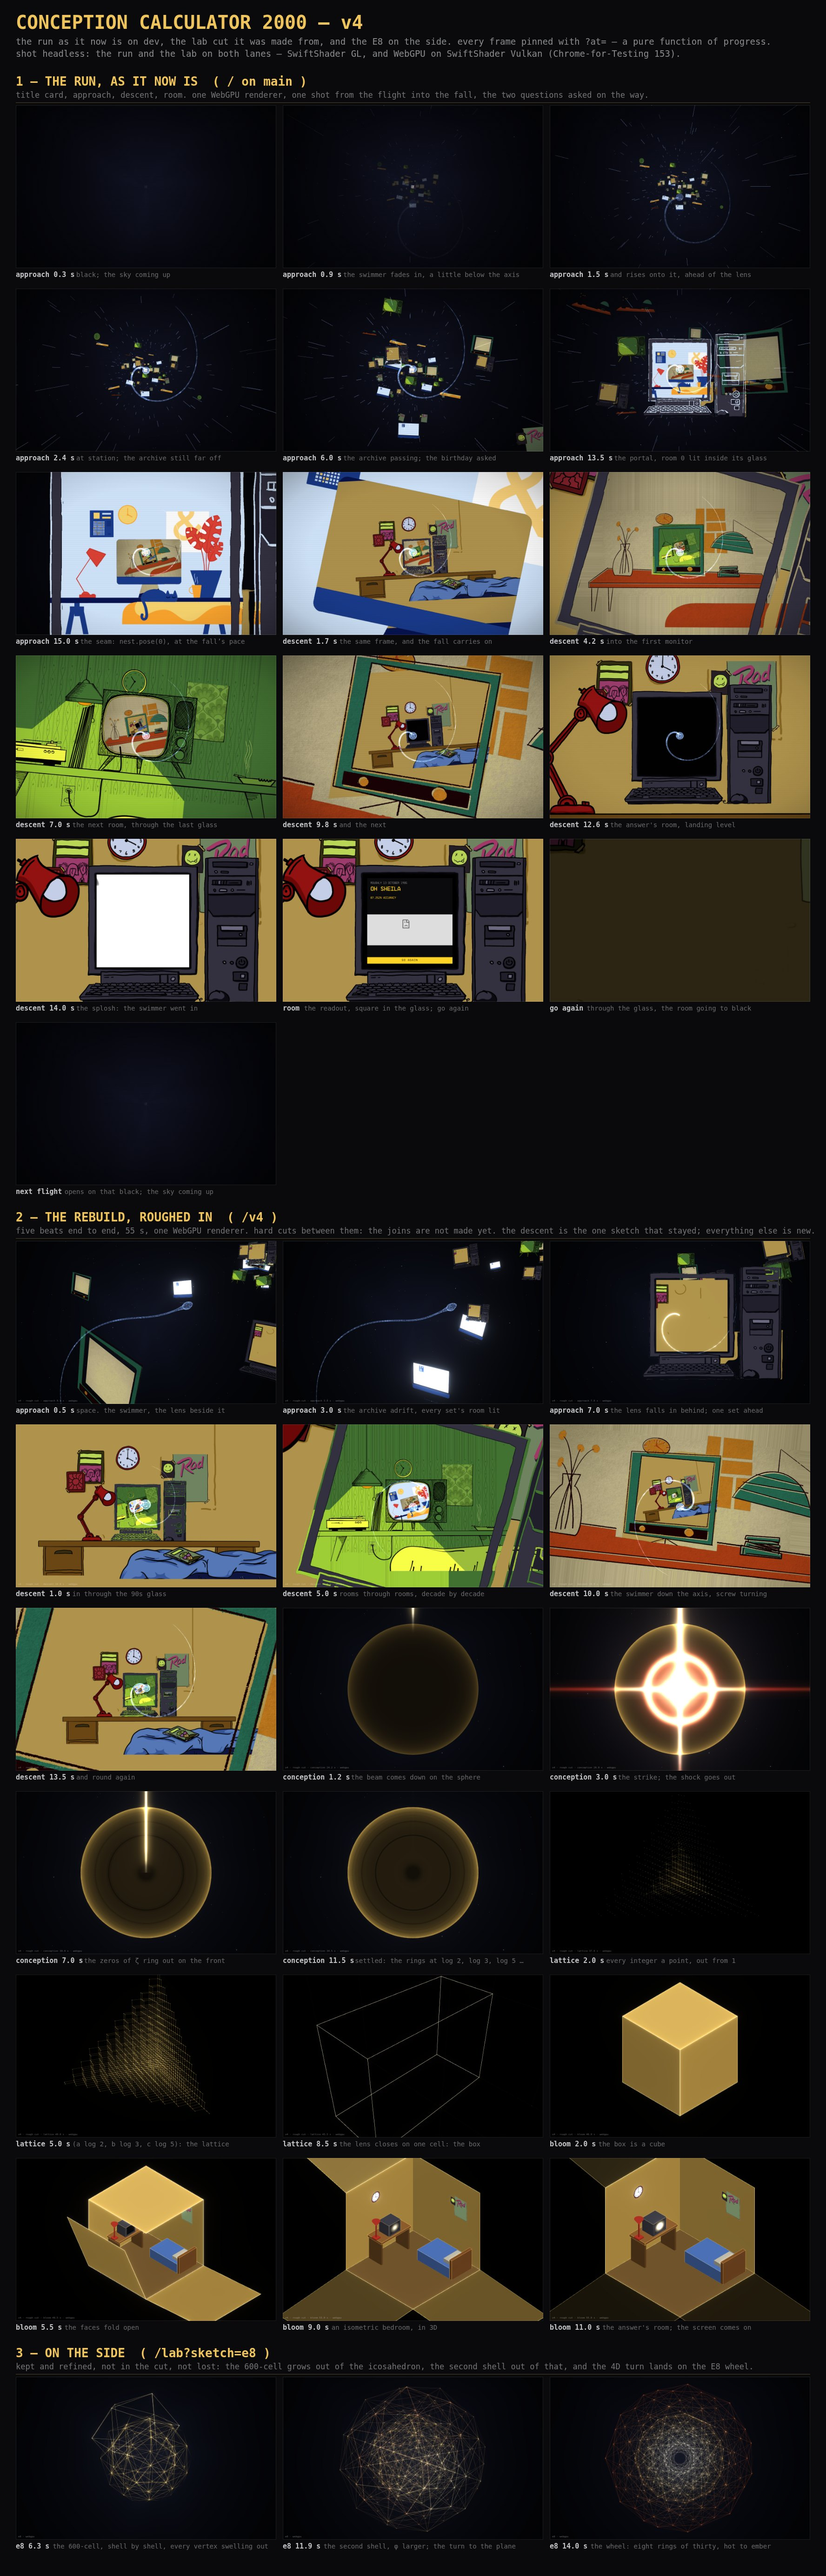
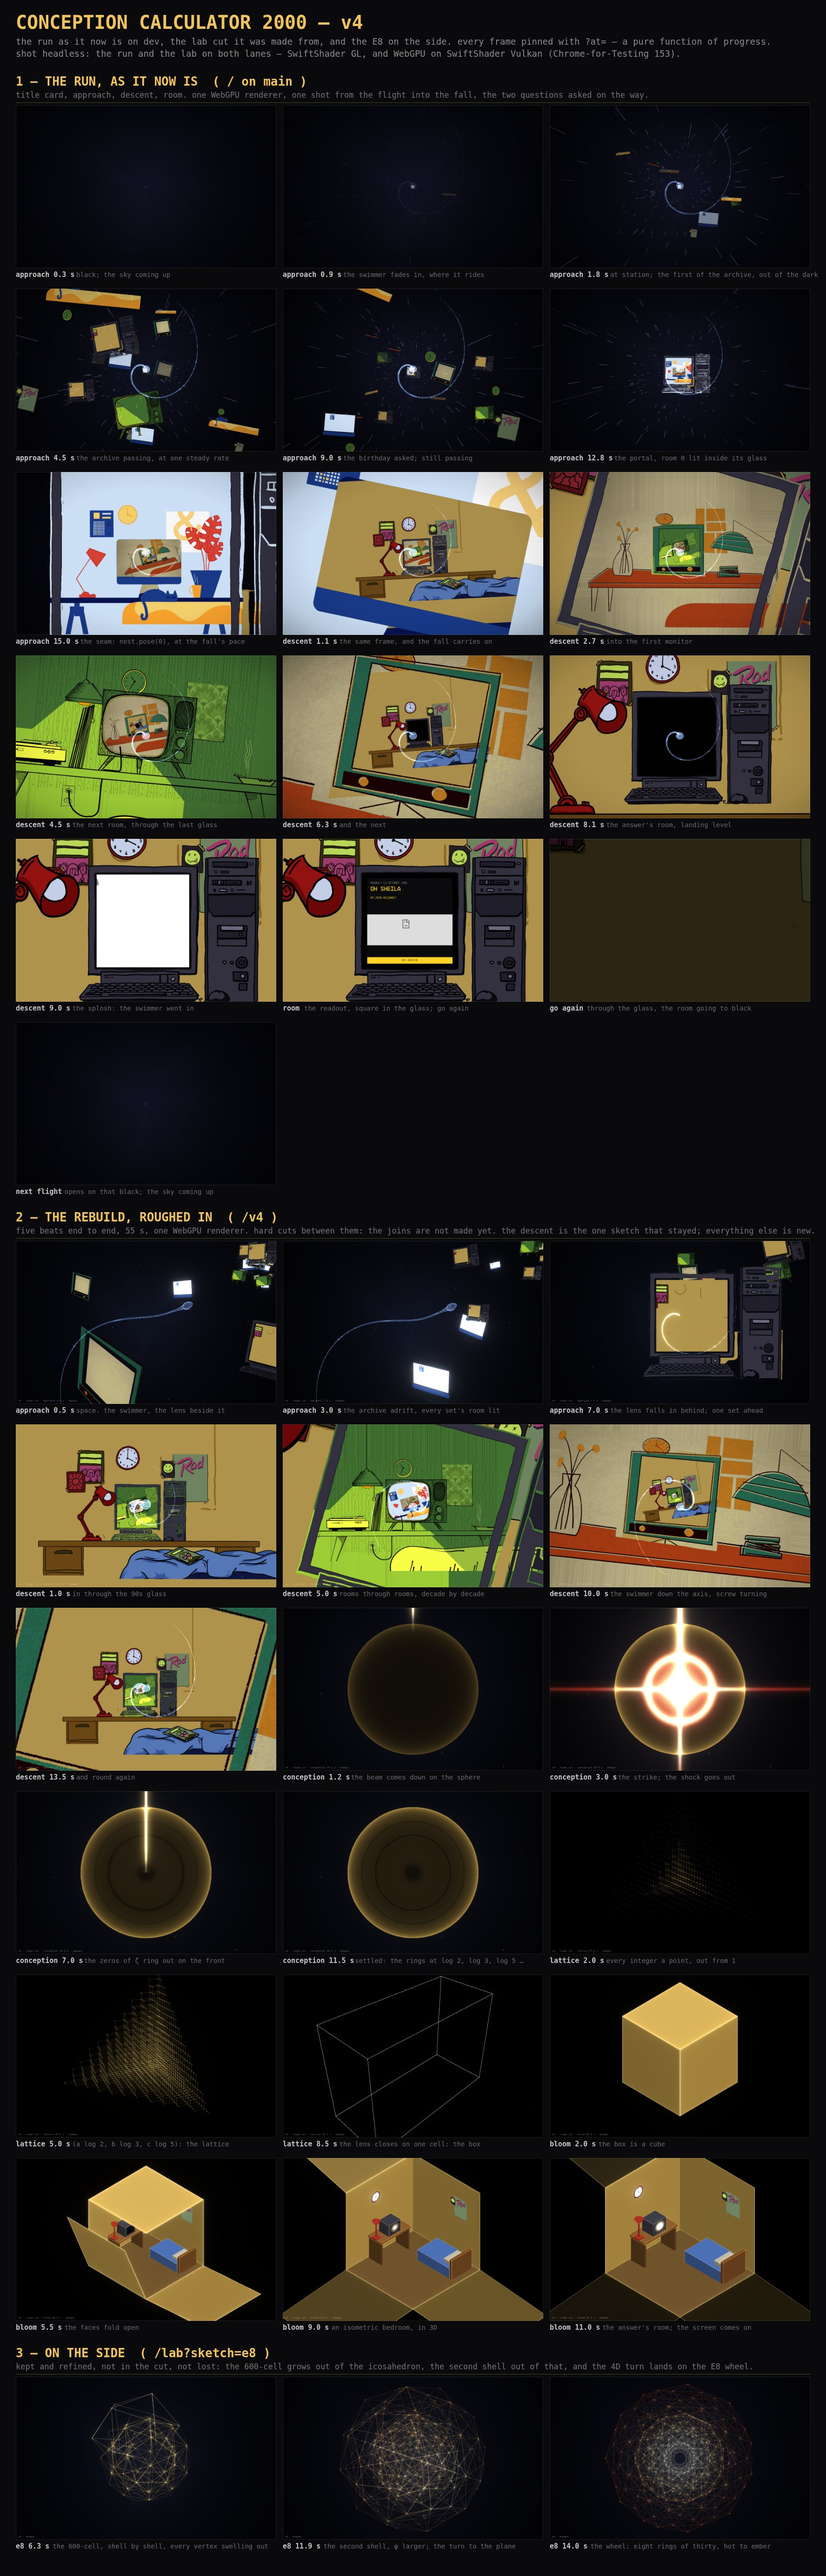
The archive in time and out of the dark, the swimmer on the axis, the fall at nine seconds
The swimmer fades in where it rides, on the axis - no rise, no pass.

The stuff that flies by was visible from the far end of the flight and
piled up round the portal while the lens slowed into it. Each piece now
has its own moment of the flight to pass the lens at and is put where
the lens will be at that moment, so it comes by at one steady rate
whatever the camera's speed is doing and nothing waits round the portal;
and it comes out of the dark, unseen beyond forty-four units ahead and
fully there inside twenty-four, so the field is what is passing rather
than a cluster seen from afar.

The fall through the monitors was too slow: the descent is nine seconds
now, not fourteen - a second and a half a crossing, the pace the lab
sketch fell at - and the approach's arrival speed follows it. The seam
still diffs to zero. The flow page is reshot.

Claude-Session: https://claude.ai/code/session_01QLiPmc6xzim2DaqGbbozFN

diff --git a/src/lib/three/world/approach.js b/src/lib/three/world/approach.js
@@ -1,4 +1,4 @@
-import { vec4, texture } from 'three/tsl';
+import { vec4, texture, positionView, smoothstep as tslSmoothstep } from 'three/tsl';
 import { get } from 'svelte/store';
 import {
 	SCENES,
@@ -40,11 +40,18 @@ import { roomsFor } from './nest';
 //
 // ── The opening ──────────────────────────────────────────────────────────────
 // The card lifts, the sky develops, and then the swimmer is there: it fades in
-// at its riding distance, a little below the axis, and rises onto it — and
-// only then does the archive start arriving, because the nearest of it is
-// APPROACH.nearest units down the flight. Three beats, and the third is the
-// event. It does NOT fly past the lens from behind: every version of that
-// reads as a body being stretched by a wide lens.
+// at its riding distance, on the axis — and only then does the archive start
+// arriving. Three beats, and the third is the event. It does NOT fly past the
+// lens from behind: every version of that reads as a body being stretched by
+// a wide lens.
+//
+// ── The archive, in time ─────────────────────────────────────────────────────
+// Each piece adrift is given a MOMENT of the flight to pass the lens at, and
+// is put where the lens will be at that moment; so it comes by at one steady
+// rate whatever the camera's speed is doing, and nothing sits round the portal
+// while the lens slows into it. And it comes out of the dark — unseen beyond
+// APPROACH.seen[1] units ahead, fully there inside seen[0] — so the field is
+// what is passing, not a cluster seen from the far end of the flight.
 //
 // ── The flight takes the answers ─────────────────────────────────────────────
 // There is no machine, so the run asks its two questions on the way in, and
@@ -126,6 +133,10 @@ export async function createApproach({ THREE, renderer, nest }) {
 	const tex = nest.textures;
 	const { uniform } = await import('three/tsl');
 	const uOn = uniform(0);
+	// Out of the dark: by view depth, so a piece is there only once it is near.
+	const uSeen0 = uniform(A.seen[0]);
+	const uSeen1 = uniform(A.seen[1]);
+	const near = tslSmoothstep(uSeen0, uSeen1, positionView.z.negate()).oneMinus();
 	const driftMats = [];
 	const dimMat = {};
 	const bgMat = {};
@@ -133,19 +144,19 @@ export async function createApproach({ THREE, renderer, nest }) {
 	for (const d of DECADES) {
 		const m = new THREE.MeshBasicNodeMaterial({ transparent: true });
 		const c = glassCut(d, tex[d].screen)();
-		m.colorNode = vec4(c.rgb.mul(0.8).mul(uOn), c.a.mul(uOn));
+		m.colorNode = vec4(c.rgb.mul(0.8).mul(uOn), c.a.mul(uOn).mul(near));
 		dimMat[d] = m;
 		driftMats.push(m);
 		const b = new THREE.MeshBasicNodeMaterial({ transparent: true });
 		const tb = texture(tex[d].bg);
-		b.colorNode = vec4(tb.rgb.mul(uOn), uOn);
+		b.colorNode = vec4(tb.rgb.mul(uOn), uOn.mul(near));
 		bgMat[d] = b;
 		driftMats.push(b);
 		furnMat[d] = {};
 		for (const key of ['desk', 'bed', 'poster', 'clock']) {
 			const fm = new THREE.MeshBasicNodeMaterial({ transparent: true });
 			const tf = texture(tex[d][key]);
-			fm.colorNode = vec4(tf.rgb.mul(0.8).mul(uOn), tf.a.mul(uOn));
+			fm.colorNode = vec4(tf.rgb.mul(0.8).mul(uOn), tf.a.mul(uOn).mul(near));
 			furnMat[d][key] = fm;
 			driftMats.push(fm);
 		}
@@ -193,21 +204,23 @@ export async function createApproach({ THREE, renderer, nest }) {
 		m.scale.set(width, width / (t.image.width / t.image.height), 1);
 		return m;
 	}
-	// A tube of them ahead, off the axis, at every distance from the nearest
-	// to a little past the portal.
+	// A tube of them, off the axis, each with its own moment to pass the lens
+	// at. Where that puts it along the flight depends on the flight's profile,
+	// which is settled per run — see placeNest(), which lays them out.
 	const place = (obj, r0, r1) => {
 		const a = rand() * Math.PI * 2;
 		const r = r0 + rand() * (r1 - r0);
-		obj.position.set(
-			Math.cos(a) * r,
-			Math.sin(a) * r * 0.75,
-			-A.nearest - rand() * (A.travel - A.nearest + 30)
-		);
+		obj.position.set(Math.cos(a) * r, Math.sin(a) * r * 0.75, 0);
 		obj.rotation.y = (rand() - 0.5) * 0.6;
 		const rot0 = (rand() - 0.5) * 0.5;
 		obj.rotation.z = rot0;
 		drifters.add(obj);
-		items.push({ mesh: obj, rot0, rate: (rand() - 0.5) * 0.4 });
+		items.push({
+			mesh: obj,
+			rot0,
+			rate: (rand() - 0.5) * 0.4,
+			at: A.passing[0] + rand() * (A.passing[1] - A.passing[0])
+		});
 	};
 	for (let i = 0; i < A.screens; i++) {
 		place(monitor(DECADES[i % DECADES.length], 1.6 + rand() * 1.6), A.tube[0], A.tube[1]);
@@ -267,6 +280,8 @@ export async function createApproach({ THREE, renderer, nest }) {
 		const c = (1 - T.cruise) / 2;
 		rho = Math.max(0.05, Math.min(1, (q * (1 - c)) / (1 - q * c)));
 		ga = 1 / (1 - (1 - rho) * c);
+		// And the archive, where the lens will be when each piece's moment comes.
+		for (const it of items) it.mesh.position.z = zEnd * flown(it.at);
 	}
 	function flown(tau) {
 		const t1 = T.cruise;
@@ -373,12 +388,11 @@ export async function createApproach({ THREE, renderer, nest }) {
 		// It rides ahead of the LENS, dead centre, and at the end pulls in to
 		// where the descent expects it. Sized off the lens and the ride so it
 		// holds its place in the frame however either changes. It arrives by
-		// fading in, a little below the axis, and rising onto it.
+		// fading in, where it rides.
 		const inK = smootherstep(span(p, T.swimmerIn));
 		const lead = lerp(A.lead, seamD * NEST.spermRide, smootherstep(span(p, T.dive)));
 		const bodyH = A.span * 2 * lead * Math.tan(rad(fov) / 2);
-		const hh = lead * Math.tan(rad(fov) / 2);
-		sw.group.position.set(0, A.from.y * (1 - inK) * hh, -lead);
+		sw.group.position.set(0, 0, -lead);
 		sw.group.scale.setScalar(bodyH);
 		sw.spinner.rotation.z = sw.clock * SPIN;
 		sw.material.uniforms.uTime.value = sw.clock;

diff --git a/src/lib/config/space.js b/src/lib/config/space.js
@@ -389,19 +389,21 @@ export const APPROACH = {
 	span: 0.28,
 	// How it arrives: it does not fly past the lens at all — every version of
 	// that reads as a body stretched by a wide lens — it FADES IN at its riding
-	// distance, this far below the axis in half-heights of the frame, and rises
-	// onto it as it takes station.
-	from: { y: -0.35 },
+	// distance, on the axis, where it rides.
 	// World units from the first frame to the portal's glass.
 	travel: 150,
 	// How much of the archive is adrift, and the tube it drifts in — a radius
-	// range, clear of the axis the swimmer and the portal are on — and how far
-	// down the flight the first of it is: the swimmer comes in first, and only
-	// then does the stuff start passing.
+	// range, clear of the axis the swimmer and the portal are on. It is placed
+	// along the flight IN TIME, not in distance: each piece passes the lens at
+	// its own moment in `passing`, so it comes by at one steady rate however
+	// the camera's speed changes, and none of it sits round the portal while
+	// the lens slows into it. And it comes out of the dark: a piece is unseen
+	// beyond `seen[1]` units ahead and fully there inside `seen[0]`.
 	screens: 22,
 	furniture: 30,
 	tube: [3.0, 11.0],
-	nearest: 60,
+	passing: [0.22, 0.88],
+	seen: [24, 44],
 	// The sky, and the debris close in that makes the speed read.
 	stars: 1100,
 	brightStars: 90,

diff --git a/src/lib/config/timing.js b/src/lib/config/timing.js
@@ -549,11 +549,10 @@ export const SCENES = scale({
 		// the glass the loop came home through had gone to black.
 		fadeIn: [0.0, 0.12],
 
-		// THE SWIMMER FADES IN, at its riding distance and a little below the
-		// axis, and rises onto it — before the archive arrives, so the card
-		// lifts, the sky develops, and then the swimmer is there. Not a pass
-		// from behind the lens: every version of that reads as a body being
-		// stretched by a wide lens.
+		// THE SWIMMER FADES IN, at its riding distance, on the axis — before the
+		// archive arrives, so the card lifts, the sky develops, and then the
+		// swimmer is there. Not a pass from behind the lens: every version of
+		// that reads as a body being stretched by a wide lens.
 		swimmerIn: [0.02, 0.2],
 
 		// Where the flight stops to ask. Progress marks, not windows: the scene
@@ -594,7 +593,9 @@ export const SCENES = scale({
 	//  |the fall, one pace, six rooms deep       |raster|dive |splosh  |land
 	//                                     |easing to rest ................|
 	descent: {
-		duration: 14,
+		// NINE. Fourteen was too slow through the monitors: at nine each crossing
+		// is a second and a half, which is the pace the lab sketch fell at.
+		duration: 9,
 
 		// How many rooms deep, the last being the answer's, and how far into the
 		// last room's crossing the run comes to rest — past the point where the

diff --git a/docs/v4-flow.md b/docs/v4-flow.md
@@ -8,9 +8,10 @@ have drawn at that moment rather than a timed guess at it.
 
 **1 — the run, as it now is.** What `/` does on `main`: a title card over an
 approach held at zero, black; the card lifts, the sky comes up, the swimmer
-fades in a little below the axis and rises onto it, ahead of the lens and seen
-from behind; then the archive starts arriving and passing, the two questions
-are asked on the way and the flight held while they are; the portal dead ahead,
+fades in where it rides, ahead of the lens and seen from behind; then the
+archive comes out of the dark and passes, each piece at its own moment of the
+flight so it comes by at one steady rate, the two questions are asked on the
+way and the flight held while they are; the portal dead ahead,
 whose glass holds the first room; the descent through the decades, one room
 inside the next, at one pace from the seam, down to the answer's room, which
 lands level; the swimmer going into its screen and the screen going white; the
@@ -23,7 +24,7 @@ opens on, at the speed the descent opens at. Frames on the WebGL lane at
 | scene    | seconds | where                                               |
 | -------- | ------- | --------------------------------------------------- |
 | approach | 15      | `three/world/approach.js`, held at the two asks     |
-| descent  | 14      | `three/world/descent.js` over `three/world/nest.js` |
+| descent  | 9       | `three/world/descent.js` over `three/world/nest.js` |
 | room     | —       | `scenes/Room.svelte`, until "go again"              |
 
 **2 — the lab cut it was made from.** The five sketches chained at `/v4`,
@@ -38,7 +39,7 @@ though not in the cut.
 
     npm run dev
     BASE=http://localhost:3000 OUT=<dir> \
-      PLAN='[["2",[0.02,0.06,0.1,0.16,0.4,0.9,1]],["3",[0.12,0.3,0.5,0.7,0.9,1]]]' \
+      PLAN='[["2",[0.02,0.06,0.12,0.3,0.6,0.85,1]],["3",[0.12,0.3,0.5,0.7,0.9,1]]]' \
       node scripts/shots.mjs
 
 for the run (`2` approach, `3` descent — the shots tool waits for the stage's
